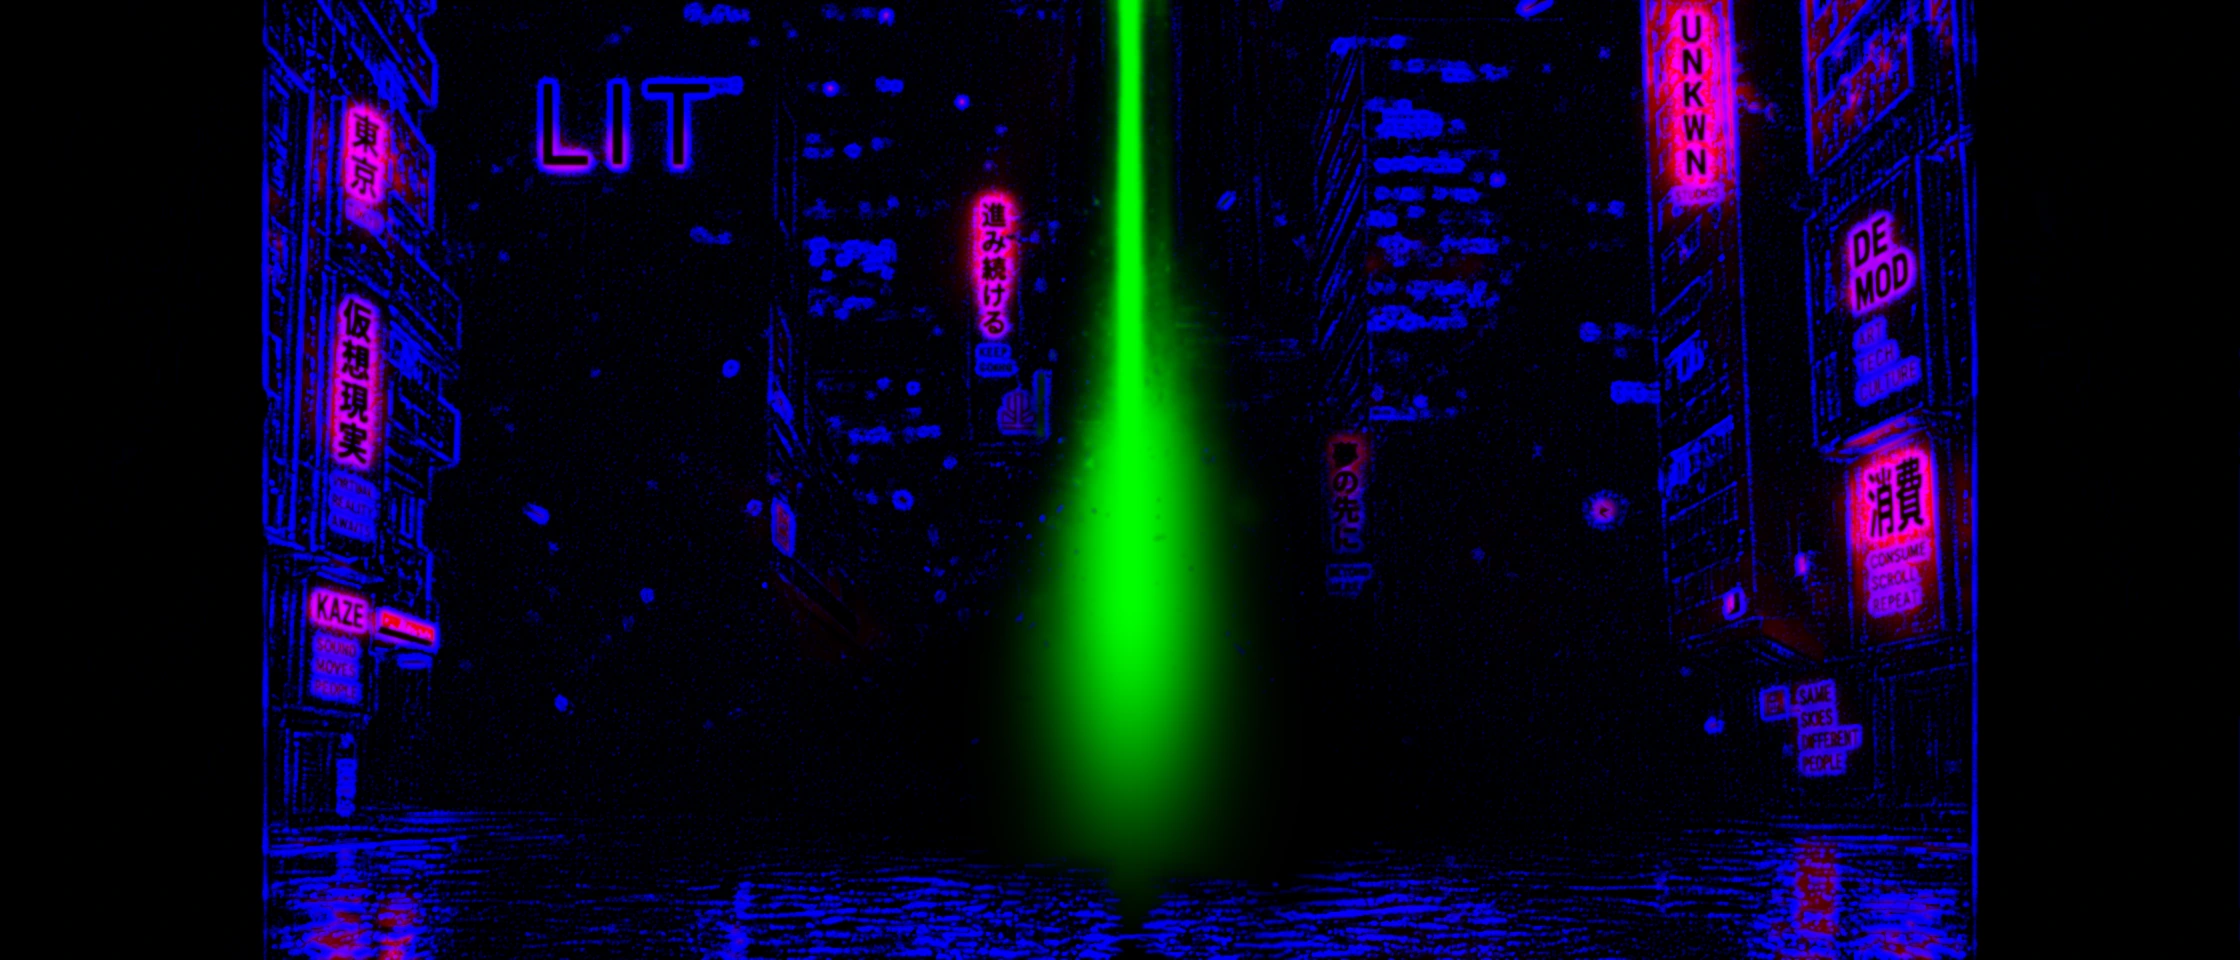
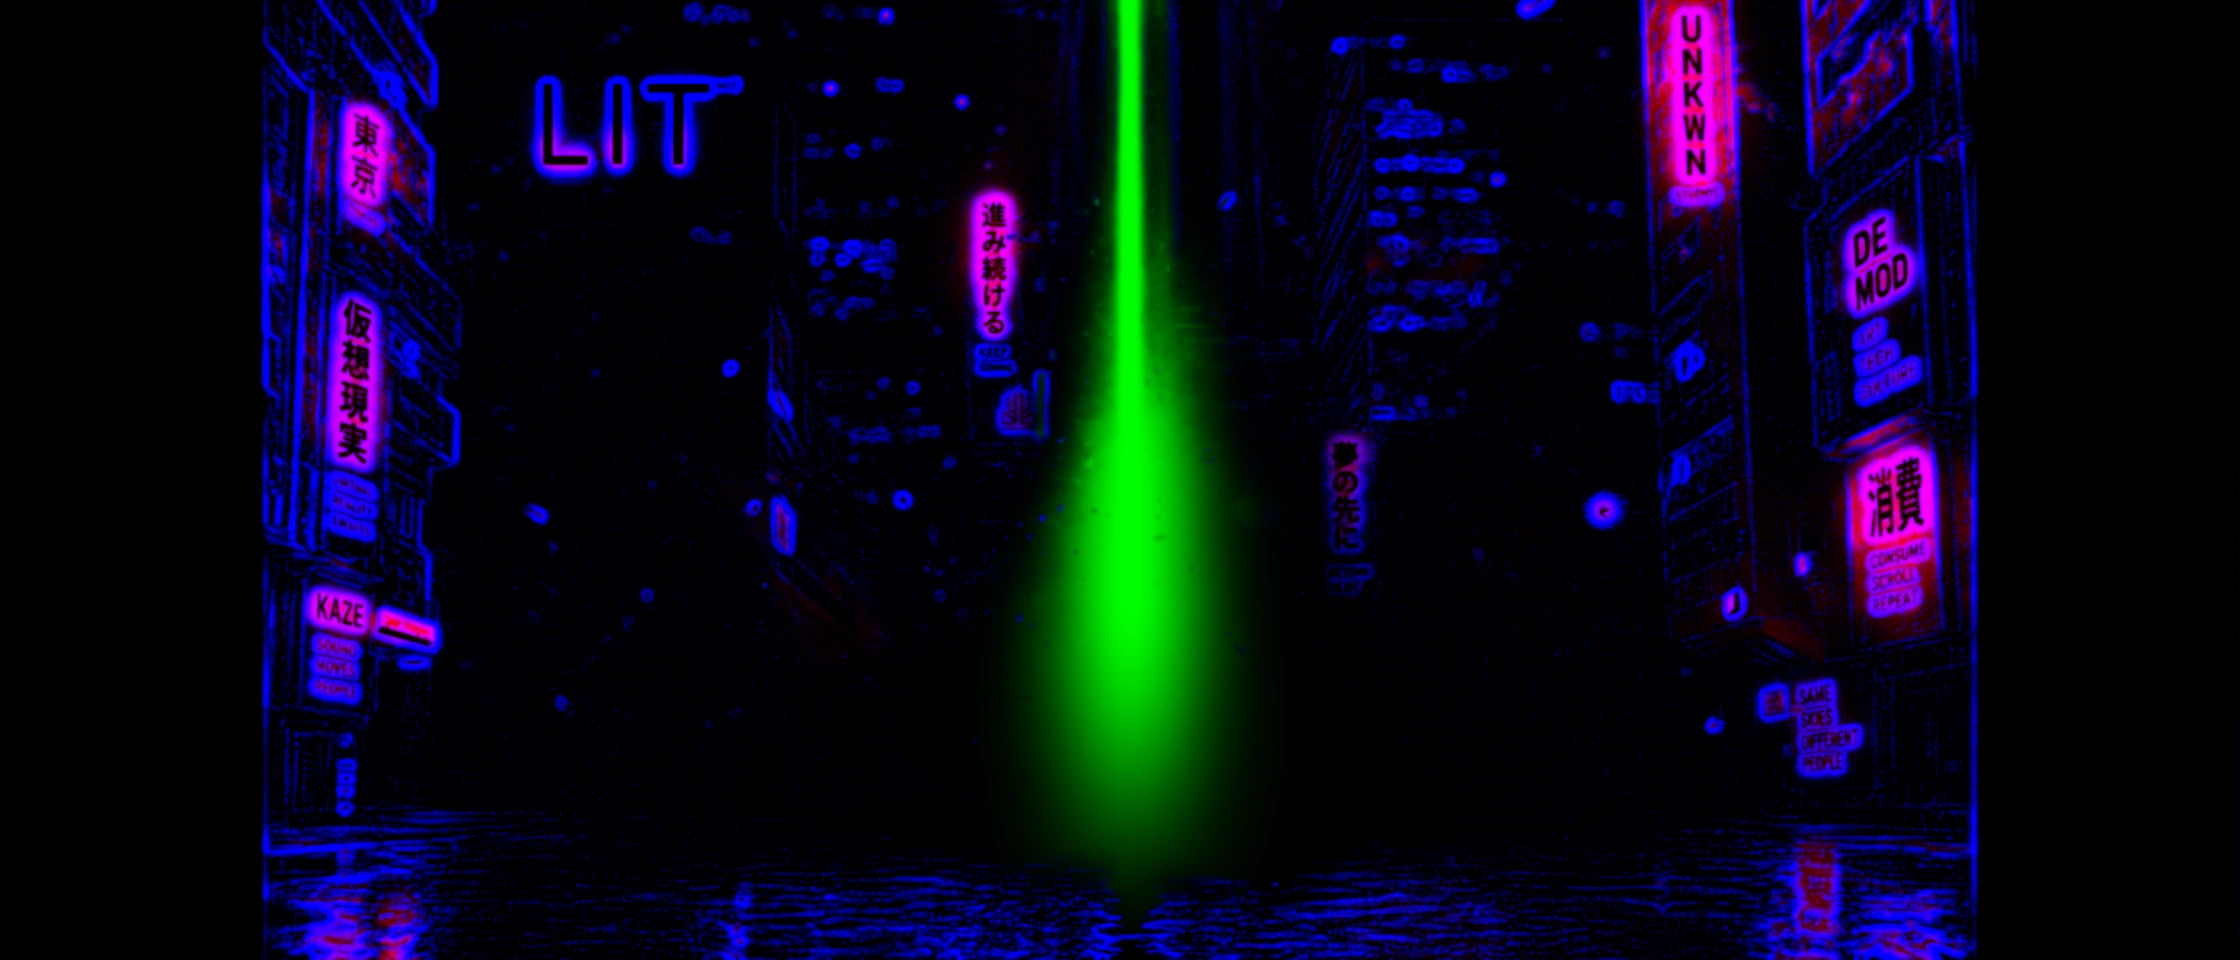
fix: the buildings have an outline again, and the fog stops eating it
The haze was still heavy enough to swallow the linework: it went on at a third strength over a
painting that had just been taken a stop and a half back, so the city read as fog with signs in it.
It is a sixth now, and it takes far less light out of what is behind it.

The pen also needed a heavier hand for the architecture. Inking was finding edges at one scale, which
caught the window detail and the sign borders but not where one building ends and the next begins.
There are two scales now: a heavy pass over a much softer frame, which is the building's own outline
and is what makes the city read as built rather than photographed, and the finer passes over the top
of it. The lines press harder overall and the fog is allowed to take back very little of them.

Claude-Session: https://claude.ai/code/session_01AuUy7LobBYA2cWW9ejzS3X

diff --git a/src/player3d/backdrop-shaders.ts b/src/player3d/backdrop-shaders.ts
@@ -88,14 +88,14 @@ export const COMIC_CITY = {
                   + valueNoise(uv * vec2(7.5, 3.6) - vec2(drift * 1.7, drift * 0.5)) * 0.38;
       float band = smoothstep(0.02, 0.5, uv.y) * (1.0 - 0.4 * smoothstep(0.78, 1.0, uv.y));
       float haze = clamp(smoke * band * uHaze, 0.0, 1.0);
-      col = mix(col, mix(vec3(0.05, 0.045, 0.085), vec3(0.15, 0.13, 0.21), smoke), haze * 0.34);
+      col = mix(col, mix(vec3(0.05, 0.045, 0.085), vec3(0.15, 0.13, 0.21), smoke), haze * 0.16);
       // Lights still punch through it, just not all the way.
-      float through = 1.0 - haze * 0.45;
+      float through = 1.0 - haze * 0.22;
 
-      // The linework goes on last, the way an inker works over a finished wash: the pen presses harder
-      // up close and lifts towards the vanishing point, and the fog takes some of it back, but a line
-      // buried under the haze is a line nobody drew.
-      float ink = mask.b * uInk * mix(0.5, 1.15, smoothstep(0.0, 0.55, depth)) * (0.45 + 0.55 * through);
+      // The linework goes on last, the way an inker works over a finished wash. The pen presses harder
+      // up close and lifts a little towards the vanishing point, and the fog takes a touch of it back,
+      // but never much: a line buried under the haze is a line nobody drew.
+      float ink = mask.b * uInk * mix(0.8, 1.35, smoothstep(0.0, 0.55, depth)) * (0.8 + 0.2 * through);
       // Only the hottest neon bleeds: there the pen picks up the sign's own glow instead of going
       // black. Everywhere else, including the lit faces around a sign, it stays a dark line.
       vec3 pen = mix(vec3(0.014, 0.016, 0.036), col * 1.7 + vec3(0.09, 0.02, 0.15), smoothstep(0.5, 0.92, mask.r));

diff --git a/scripts/build-city.py b/scripts/build-city.py
@@ -121,24 +121,36 @@ def soften(a: np.ndarray, sigma: float) -> np.ndarray:
     return np.asarray(blurred(a, sigma), dtype=np.float32) / 255.0
 
 
+def gradient(a: np.ndarray) -> np.ndarray:
+    gx = np.zeros_like(a)
+    gy = np.zeros_like(a)
+    gx[:, 1:-1] = a[:, 2:] - a[:, :-2]
+    gy[1:-1, :] = a[2:, :] - a[:-2, :]
+    return np.sqrt(gx * gx + gy * gy)
+
+
 def build_ink(value: np.ndarray, saturation: np.ndarray) -> np.ndarray:
     """
-    The drawn lines. A difference of Gaussians over the painting's tone, which is what an inker does by
-    hand: follow where the light changes fastest and lay the stroke down the dark side of it. A gradient
-    term goes in alongside it so a flat silhouette against the sky still gets an edge, and the blown-out
-    middle of the shot is left clean, because nobody inks fog.
+    The drawn lines, at the two scales an inker works at.
+
+    The heavy one comes first and matters most: a gradient over a heavily softened frame, which finds
+    where one building ends and the next begins rather than the windows on its face. That is the
+    architecture's outline, and it is what makes the city read as built rather than photographed.
+
+    Over the top of it go the fine ones: a difference of Gaussians over the painting's own tone, which
+    is what a hand does, follow where the light changes fastest and lay the stroke down the dark side of
+    it, plus a detail gradient for the smaller edges. The blown-out middle of the shot is left clean,
+    because nobody inks fog.
     """
     smooth = soften(value, 1.1)                       # photographic grain is not linework
+    # The heavy pen: big forms only.
+    structure = smoothstep(0.006, 0.055, gradient(soften(value, 3.6)))
+
     edge_of = soften(smooth, 1.0) - soften(smooth, 2.6)
     line = smoothstep(0.0015, 0.022, -edge_of)        # the dark side of the edge takes the stroke
+    detail = smoothstep(0.018, 0.11, gradient(smooth))
 
-    gx = np.zeros_like(smooth)
-    gy = np.zeros_like(smooth)
-    gx[:, 1:-1] = smooth[:, 2:] - smooth[:, :-2]
-    gy[1:-1, :] = smooth[2:, :] - smooth[:-2, :]
-    silhouette = smoothstep(0.018, 0.11, np.sqrt(gx * gx + gy * gy))
-
-    ink = np.clip(line * 0.95 + silhouette * 0.85, 0.0, 1.0)
+    ink = np.clip(structure * 1.05 + line * 0.5 + detail * 0.45, 0.0, 1.0)
     # A stroke thinner than a pixel disappears the moment the plane is scaled, so each one is spread to
     # its neighbours: the pen has a nib, it is not a sampling of where an edge was.
     nib = ink.copy()
